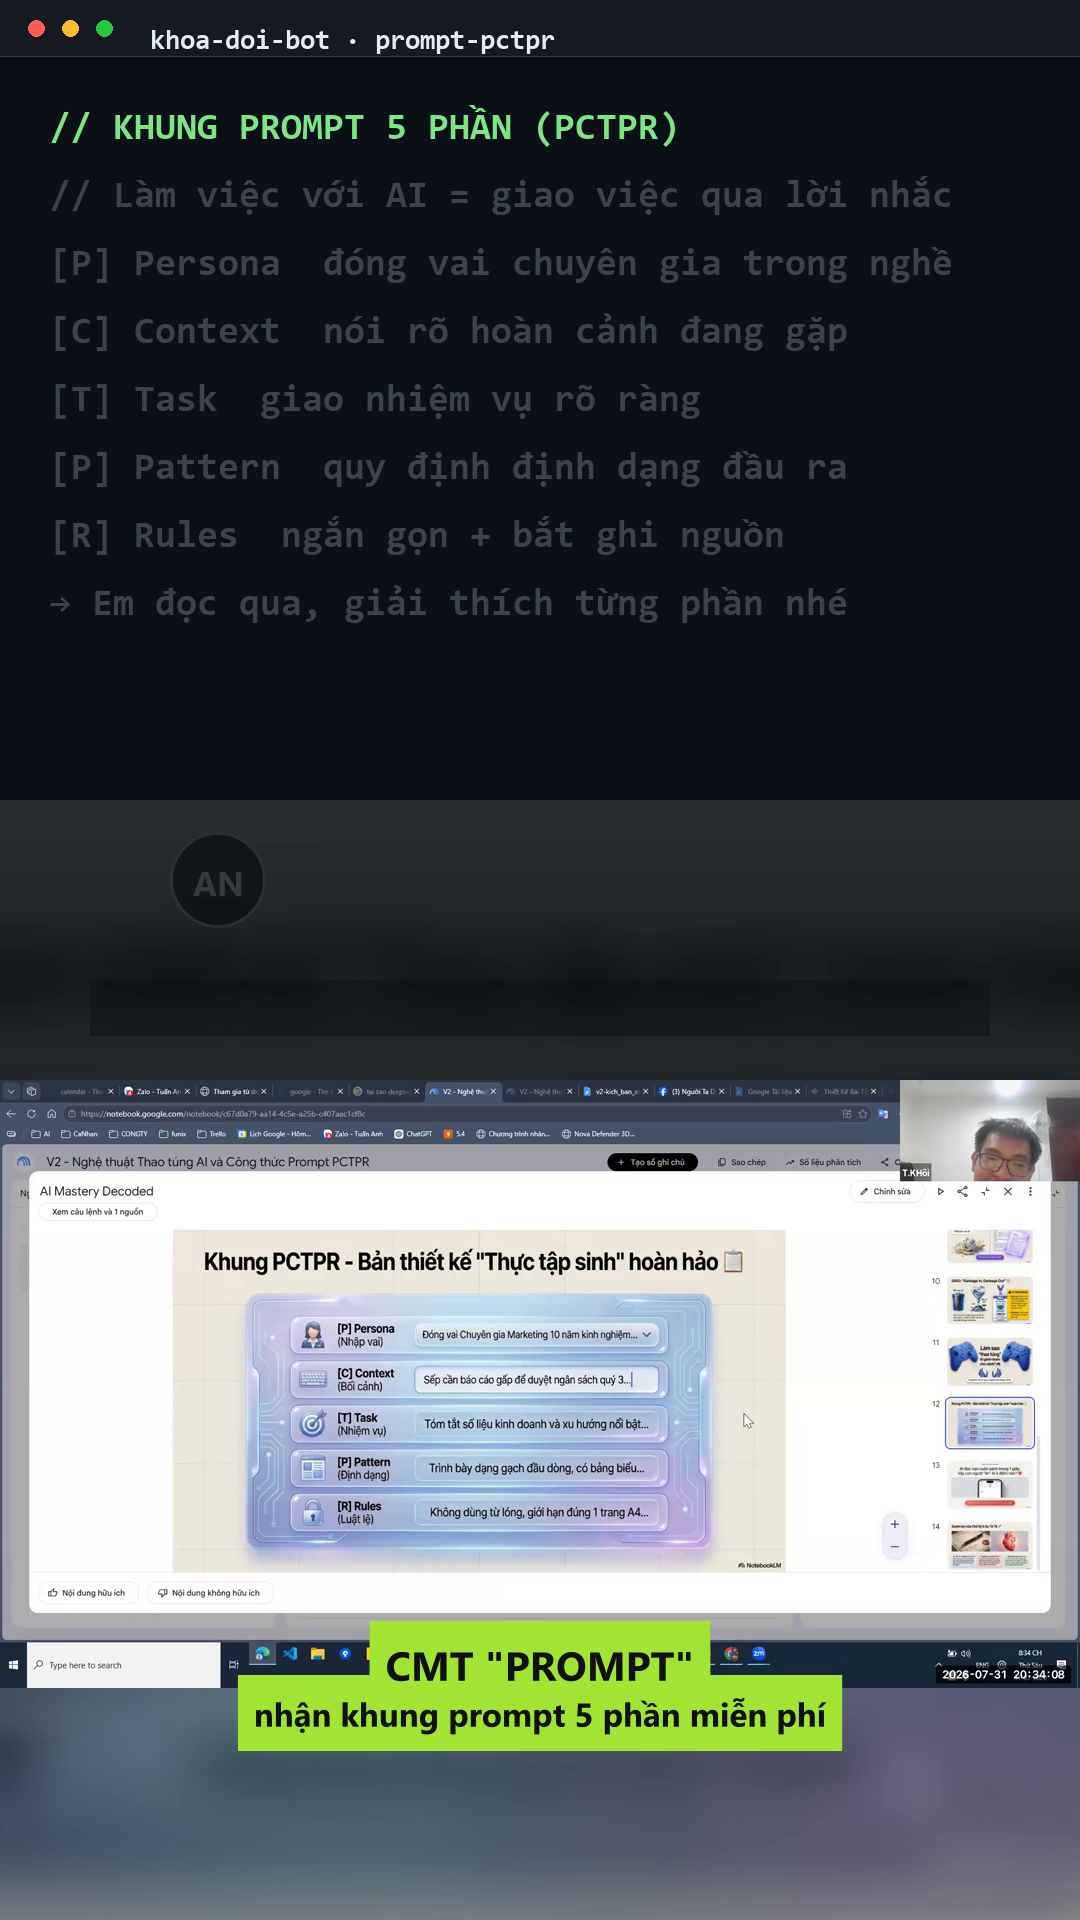
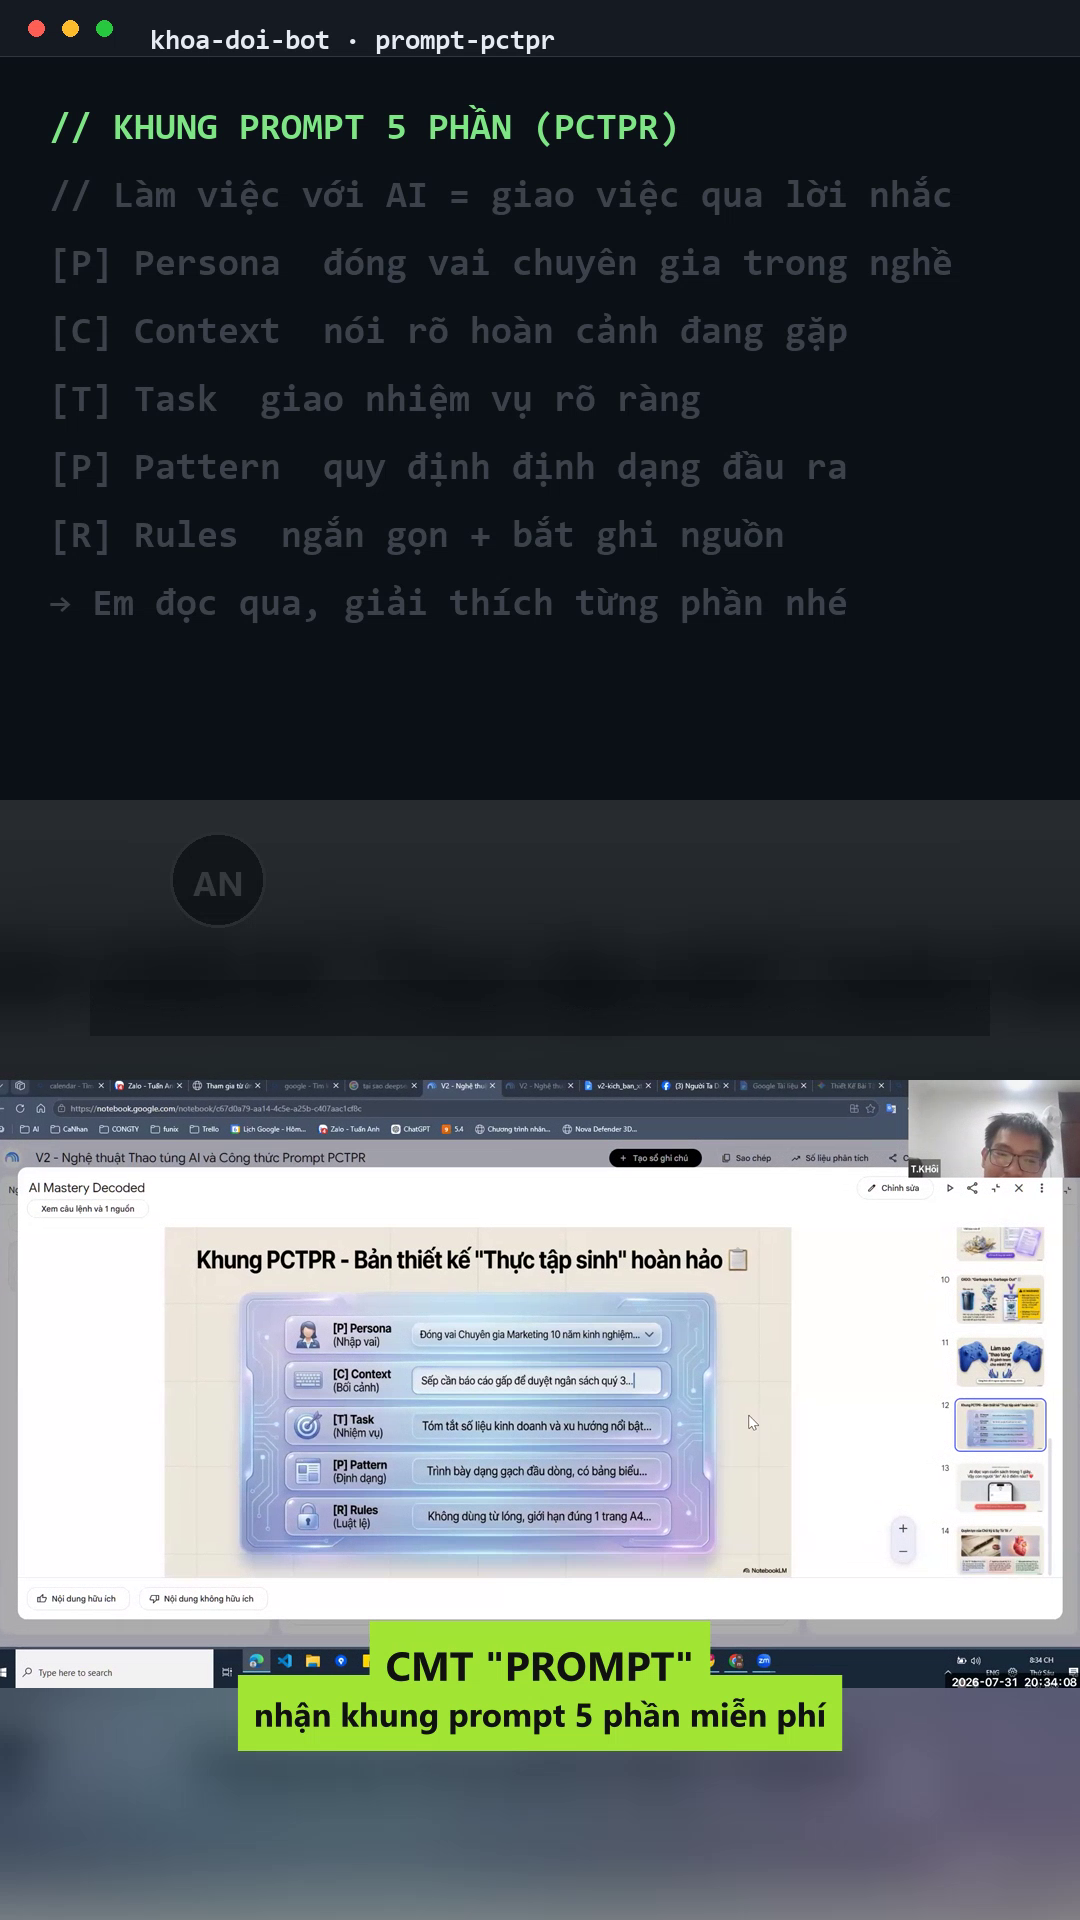
E15 kenburns: 133/140 (tag v13) — M13 4->10

Changed region(s): [[0.0, 0.5625, 1.0, 0.9062]]

diff --git a/render_code_variant.py b/render_code_variant.py
@@ -242,7 +242,17 @@ def main() -> int:
         "[bgsrc]scale=1080:1920:force_original_aspect_ratio=increase,"
         "crop=1080:1920,boxblur=30:2,eq=brightness=-0.28:saturation=0.65,"
         "crop=1080:1120:0:400[bg];"
-        "[fgsrc]scale=1080:-2[fg];"
+    )
+    if v.get("kenburns"):
+        # zoom chậm (ken burns) trên footage: 1.0 -> ~1.07 trong suốt clip
+        chain += (
+            "[fgsrc]scale=2200:-2,"
+            "zoompan=z='min(1+0.00045*in,1.07)':x='iw/2-(iw/zoom/2)':y='ih/2-(ih/zoom/2)'"
+            ":d=1:s=1080x608:fps=25[fg];"
+        )
+    else:
+        chain += "[fgsrc]scale=1080:-2[fg];"
+    chain += (
         "[2:v][1:v]overlay=0:0[c1];"
         "[c1][bg]overlay=0:800[c2];"
         "[c2][fg]overlay=(W-w)/2:1080[c3];"

diff --git a/diem/diem_log.md b/diem/diem_log.md
@@ -21,7 +21,8 @@ Metric duy nhất: rubric.md (100 điểm). Best hiện tại ghi đầu bảng.
 | E12 | Window sync: nhóm 5 phần ép vào 18.9-25.0 | 100/100 | ✔ | 100 |
 | — | THANG MỞ RỘNG 140 (M11-M14) — v10 chấm lại: M11:2 M12:3 M13:4 M14:3 => 112/140 | 112 | ✔ | 112 |
 | E13 | Nhạc nền synth C3-G3-E4 + sidechain duck (I=-16.0 LUFS) | 120 | ✔ | 120 |
-| E14b | Hook intro lime 1.8s đầu fade-in nêu lợi ích | **127** | ✔ best | **127** |
+| E14b | Hook intro lime 1.8s đầu fade-in nêu lợi ích | 127 | ✔ | 127 |
+| E15 | Ken burns zoom footage 1.0→1.07 (M13) | **133** | ✔ best | **133** |
 
 ## E0 — Baseline: 86 điểm (tag v0)
 
@@ -105,6 +106,10 @@ Chấm trên diem/E0_baseline/ (ffprobe: 1080x1920, 50.00s — chuẩn).
 
 - M12: 3 → 10 (chữ Hook 74px lime nền tối, fade 160/220ms, nêu đúng lợi ích 5 phần; code đang ghost nên không che gì).
 - Pitfall vận hành: file output bị ffmpeg cũ giữ lock → render bằng tên mới thay vì chờ.
+
+## E15 — Ken burns: 133/140 (tag v13, integrity + 50.00s)
+
+- M13: 4 → 10 (zoompan 2200px nguồn, zoom 1.0→1.07 center, không méo).
 
 ## PHIÊN 1 ĐÓNG TẠI ĐÂY (quota zai ~42%)
 
